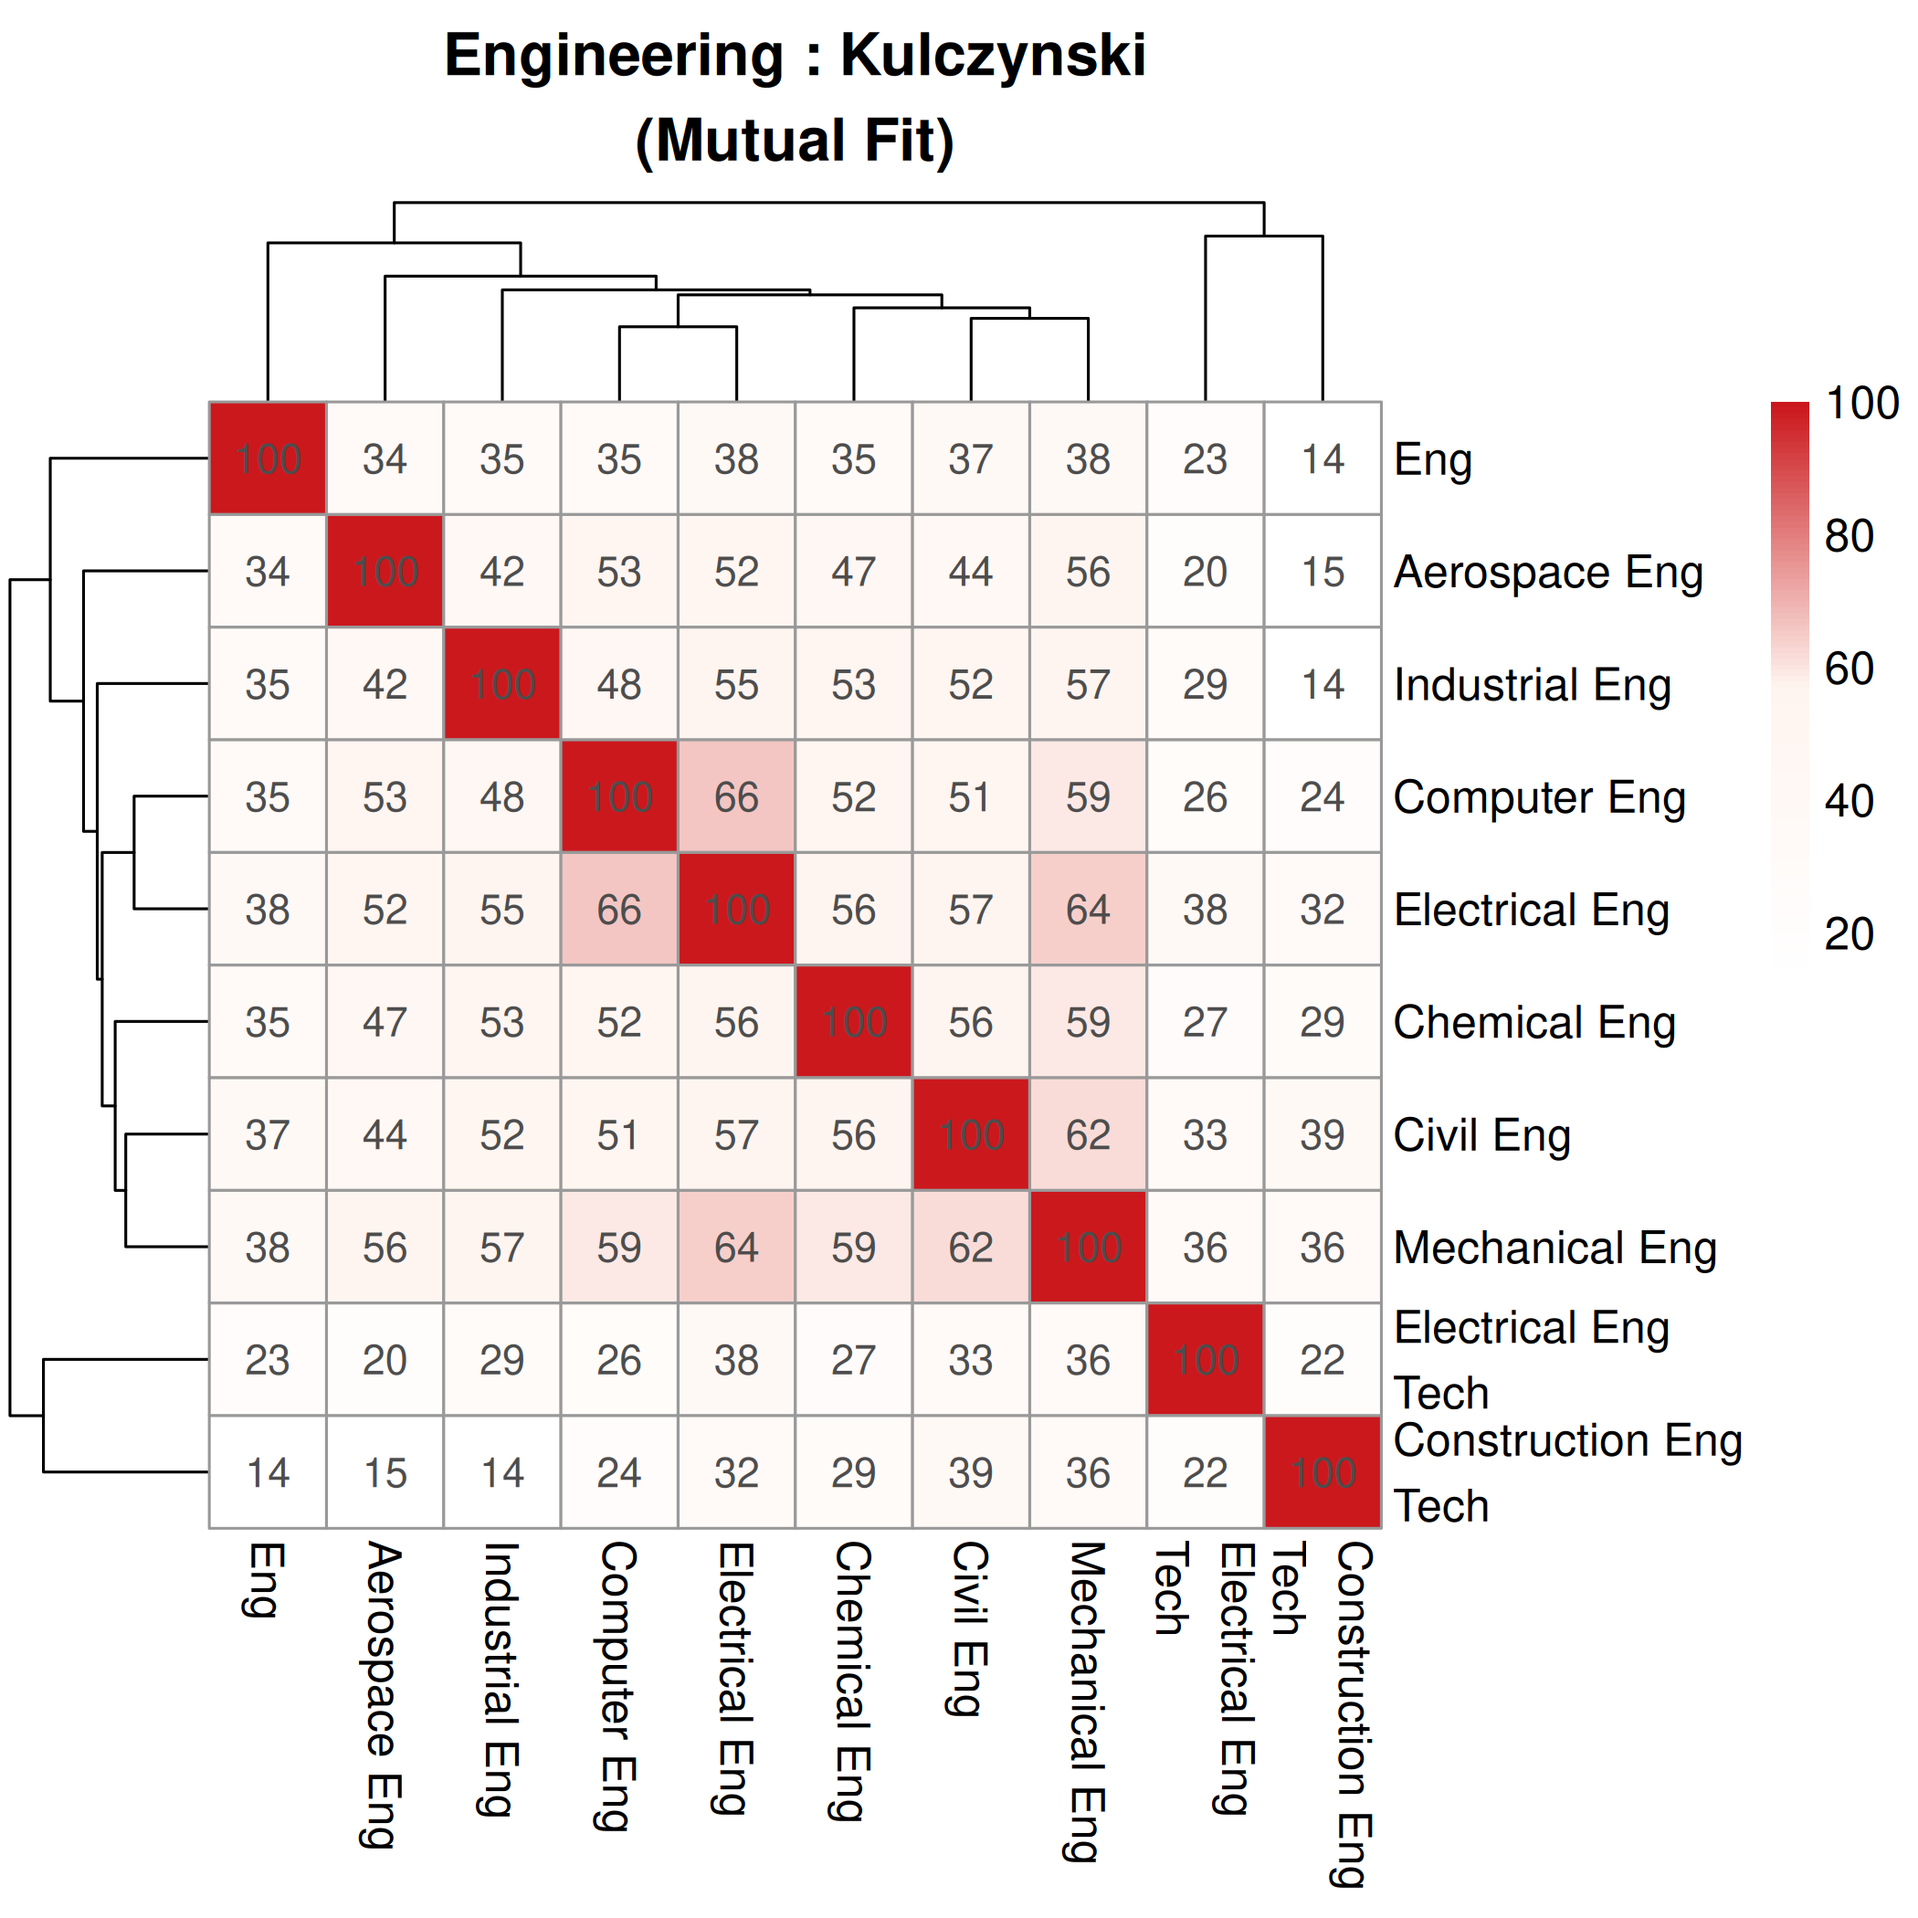
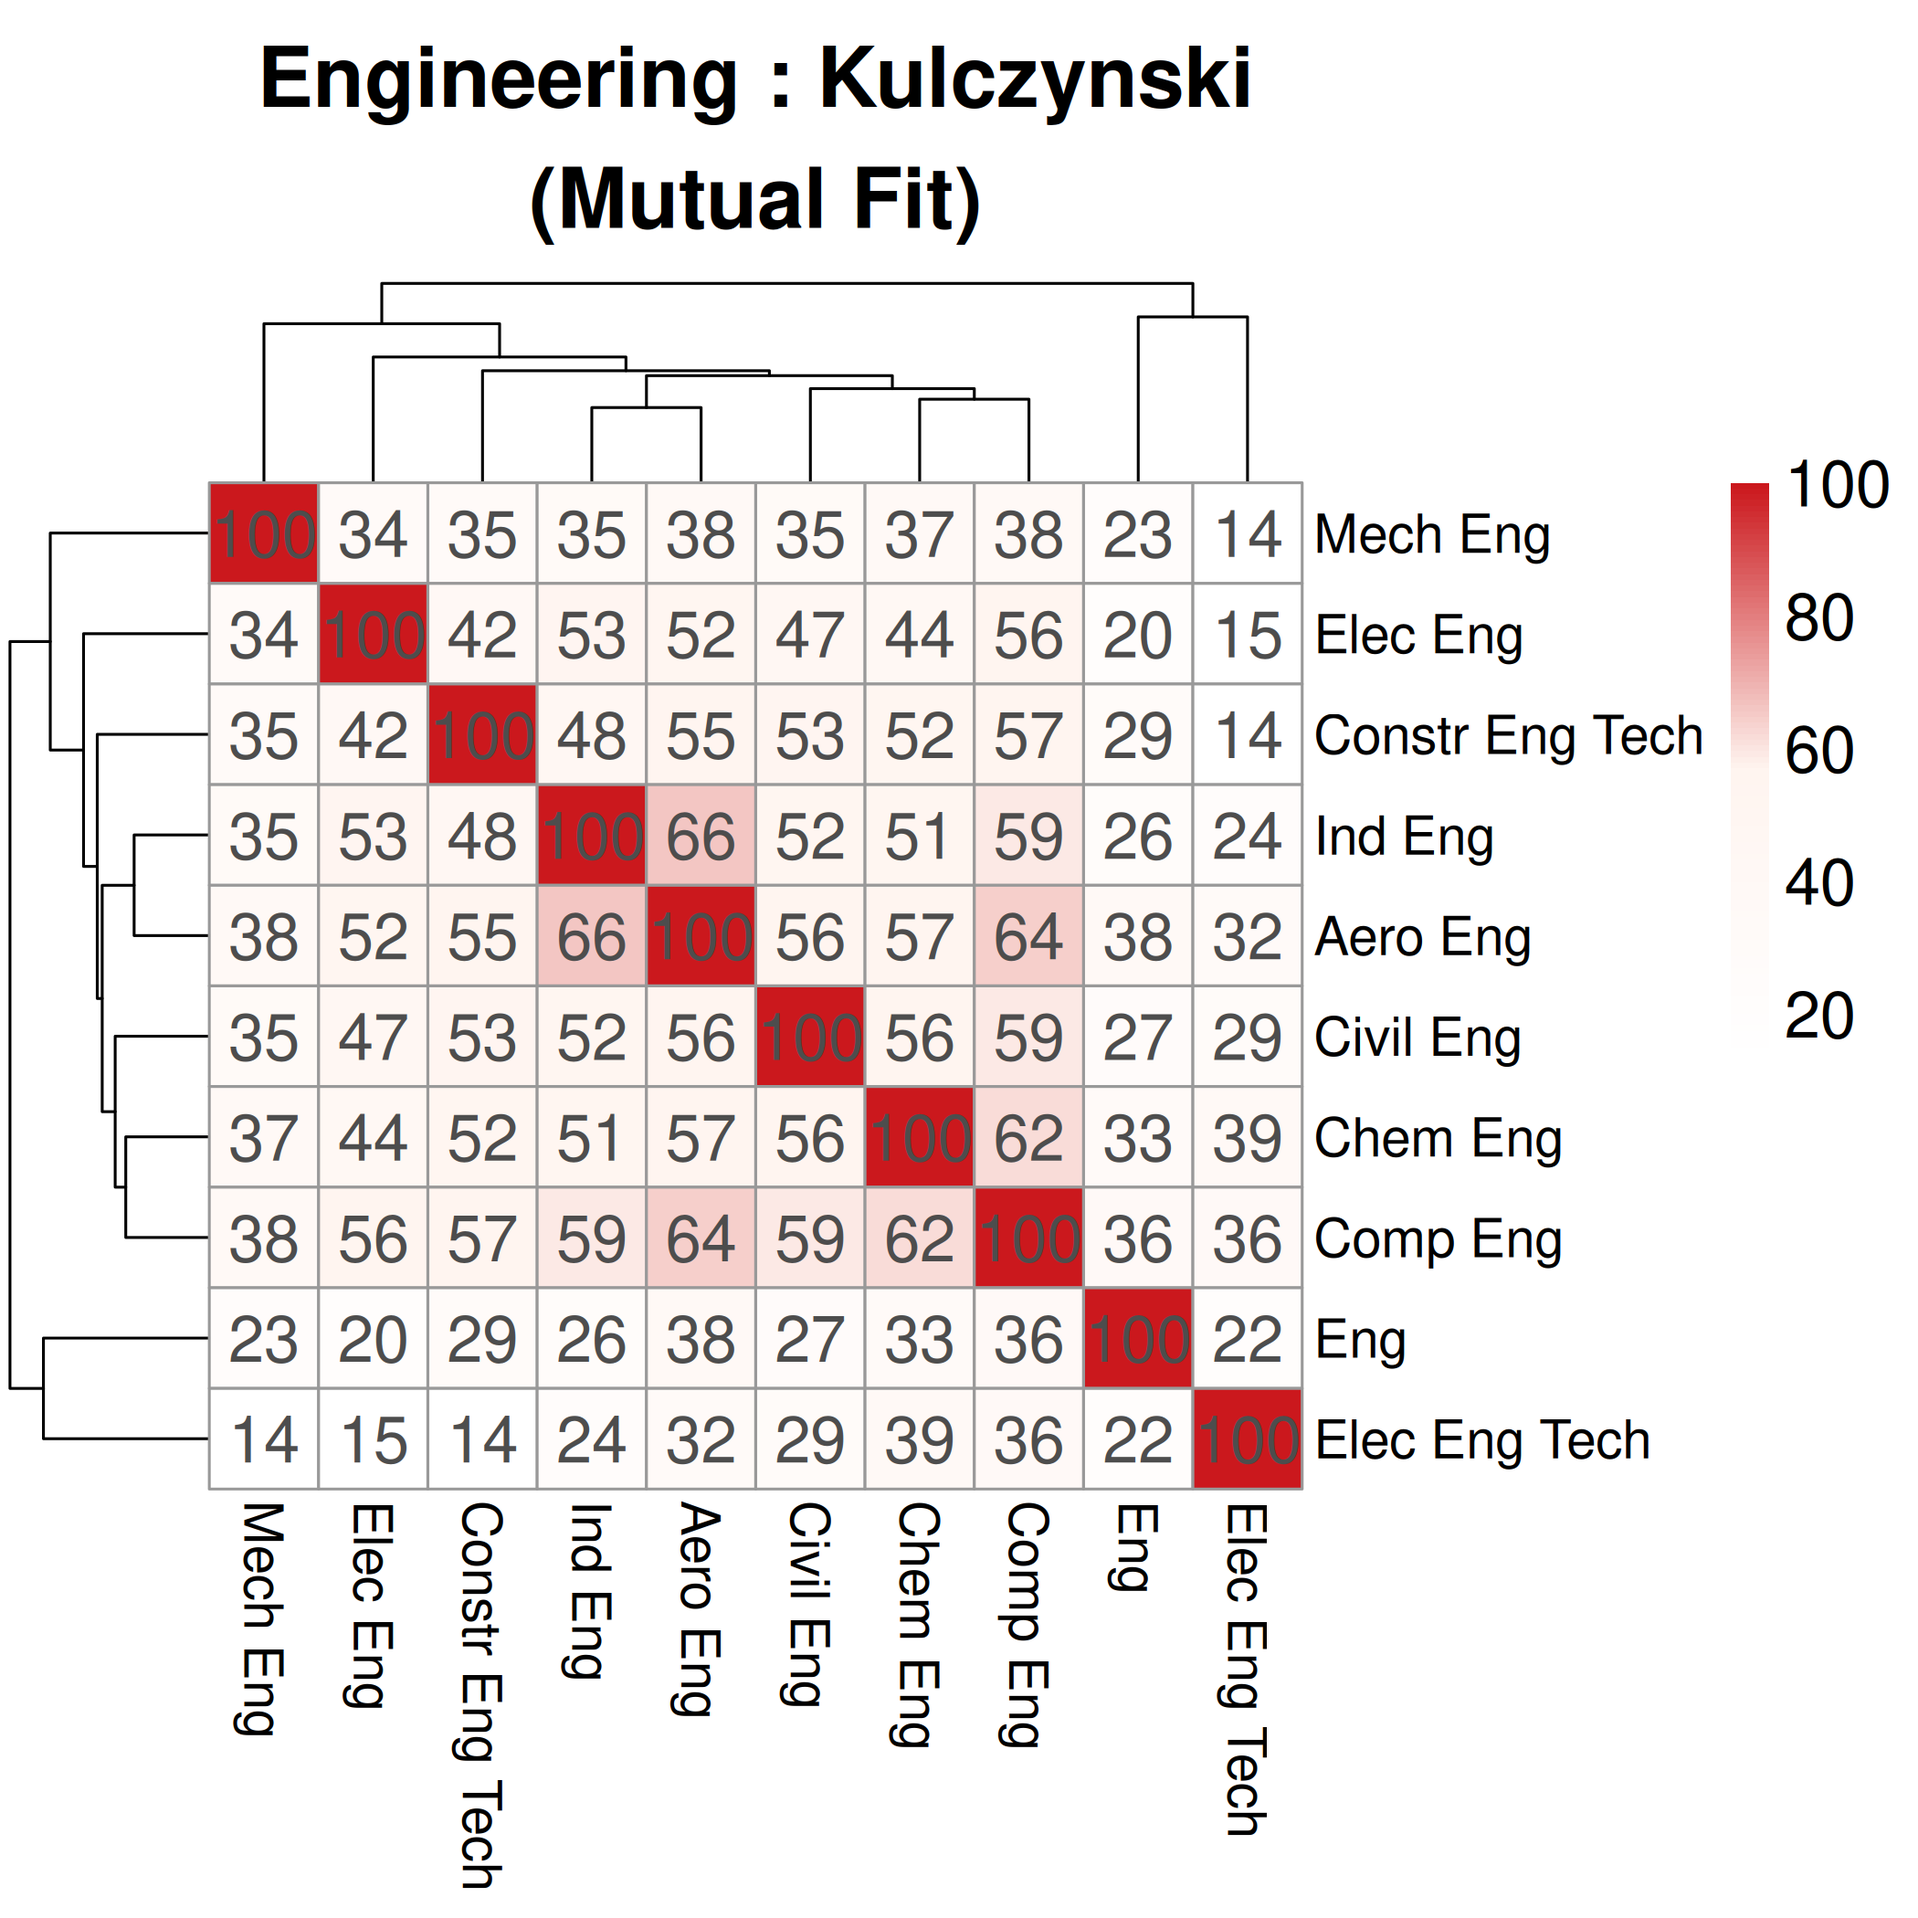
WIP paper accepted — update heatmaps and add bibliography
Regenerated all top-10 heatmap PNGs across four analysis modes
(computing, engineering, sciences, interdisciplinary) and added
bibliography.bib, .gitignore, and CLAUDE.md.

diff --git a/CLAUDE.md b/CLAUDE.md
@@ -1,0 +1,51 @@
+# CLAUDE.md
+
+This file provides guidance to Claude Code (claude.ai/code) when working with code in this repository.
+
+## Project Overview
+
+ASEE 2026 conference paper analyzing interdisciplinary overlap between STEM domains using the MIDFIELD student enrollment dataset. The project computes seven similarity metrics (Jaccard, TF-IDF Cosine, Overlap Coefficient, PMI, Max-Scaled Cosine, Dice, Kulczynski) across four analysis modes: computing, engineering, sciences, and interdisciplinary.
+
+## Build/Render
+
+```bash
+quarto render index.qmd        # Render the main analysis document to IEEE PDF
+quarto render asee_wip.qmd     # Render the WIP paper
+```
+
+Output: IEEE-formatted PDF, heatmap PNGs, and similarity metrics JSON files. The `_freeze/` directory caches R code execution results.
+
+## Tech Stack
+
+- **Quarto** with the `dfolio/ieee` extension for IEEE journal formatting (in `_extensions/`)
+- **R 4.5** managed via `renv` (lockfile: `renv.lock`, activated by `.Rprofile`)
+- **Core R packages**: `data.table` (primary data manipulation), `lsa` (cosine similarity), `pheatmap` (heatmaps), `jsonlite` (export), `tidyverse`/`stringr` (string processing)
+- **LaTeX** via `pdflatex` for PDF generation
+
+## Key Files
+
+- `index.qmd` — Main analysis document with all R code: data loading, metric computation, heatmap generation, and JSON export
+- `asee_wip.qmd` — WIP paper shell (references generated heatmap images)
+- `asee_wip.org` — Org-mode version of the paper prose (introduction, methodology, results, discussion)
+- `bibliography.bib` — Citations (natbib)
+- `data/` — MIDFIELD dataset: `degree_*.csv.gz`, `course_*.csv.gz`, `student_*.csv.gz`, `term_*.csv.gz`, `cip_codes.csv.gz`
+
+## Architecture
+
+The analysis pipeline in `index.qmd` follows this flow:
+
+1. **Data loading**: Reads MIDFIELD degree and course CSVs via `data.table::fread`, normalizes course names (uppercase, strip leading zeros, remove suffix letters like H/W)
+2. **Vectorization**: Merges degree/course tables, computes per-major course frequencies and probabilities (`prob_taken`, `max_scaled`)
+3. **Analysis mode selection**: Set `analysis_mode` to one of `"computing"`, `"engineering"`, `"sciences"`, `"interdisciplinary"` — each filters to different CIP code sets
+4. **Metric computation**: Calculates all seven similarity matrices for the selected CIP codes
+5. **Visualization**: Generates `pheatmap` heatmaps saved as `heatmap_{mode}_top{N}_{metric}.png`
+6. **Export**: Writes all matrices to `similarity_metrics_{mode}_top{N}.json`
+
+The code block starting at the `# consolidated` section is the self-contained analysis that handles all modes. The `analysis_mode` and `n_top_limit` variables at the top of that block control what gets generated. To produce all outputs, render once per mode.
+
+## CIP Code Domains
+
+- **Computing**: CIP 11xxxx + 1409xx (Computer Engineering) + 1512xx/1513xx (Engineering Tech)
+- **Engineering**: CIP 14xxxx + 15xxxx, sorted by enrollment size
+- **Sciences**: CIP 26 (Bio), 27 (Math), 40 (Physical Sciences), 30 (Interdisciplinary), 01 (Ag), 03 (Natural Resources)
+- **Interdisciplinary**: Hand-picked representatives (CS, MechEng, Bio, Math, Physics, Geology)
